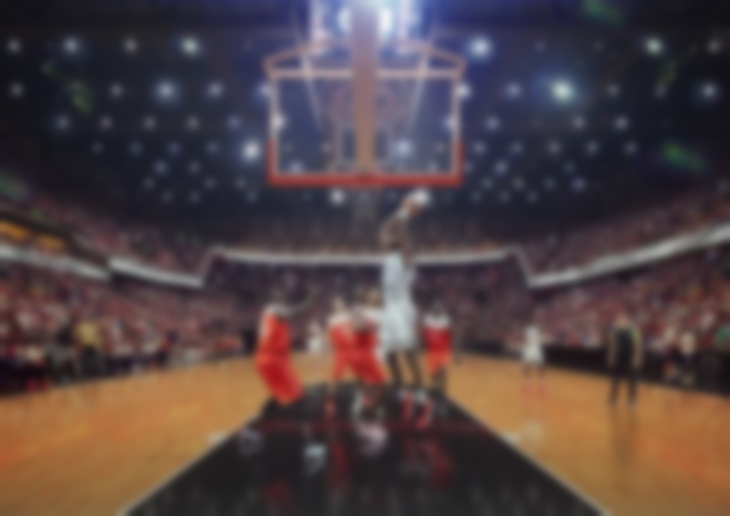
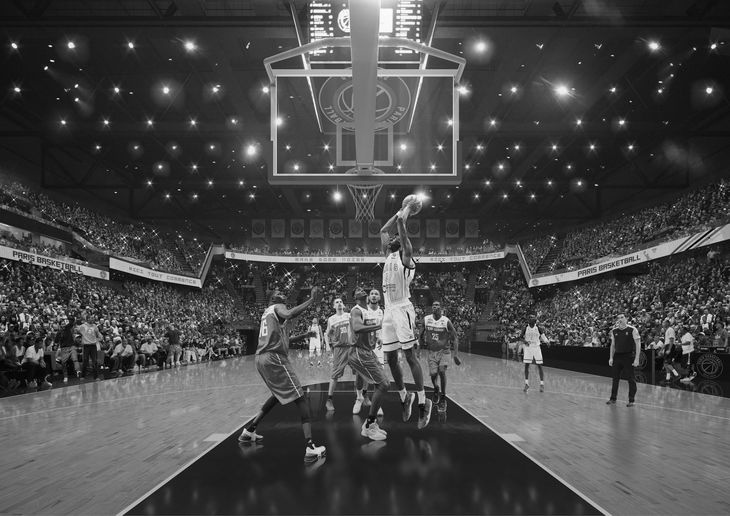
Quelques modifications dans le repository

diff --git a/filtre/blur.py b/filtre/blur.py
@@ -1,4 +1,4 @@
-# Importation des bibliothèques
+# Importation de bibliothèques
 import cv2
 import os
 from datetime import *
@@ -14,7 +14,7 @@ def msg_filter(msg):
     Rapporte les opérations effectués lors de l'exécution dans le fichier filter.log
     :param msg: Le nom du fichier parcouru
     """
-    with open('filter.log', 'a') as log:
+    with open('../filter.log', 'a') as log:
         log.write(f"{datetime.now()} - Filtration en floue {msg}\n")
 
 

diff --git a/filtre/noir&blanc.py b/filtre/noir&blanc.py
@@ -1,0 +1,18 @@
+import cv2
+import numpy
+import os
+
+
+def noir_blanc():
+    image = '../data/img'
+    fichier = os.listdir(image)
+
+    for photo in fichier:
+        chemin = f"{image}/{photo}"
+        a_traiter = cv2.imread(chemin)
+        gris = cv2.cvtColor(a_traiter, cv2.COLOR_BGR2GRAY)
+        cv2.imwrite(f'../data/output/{photo}', gris)
+
+
+
+noir_blanc()
